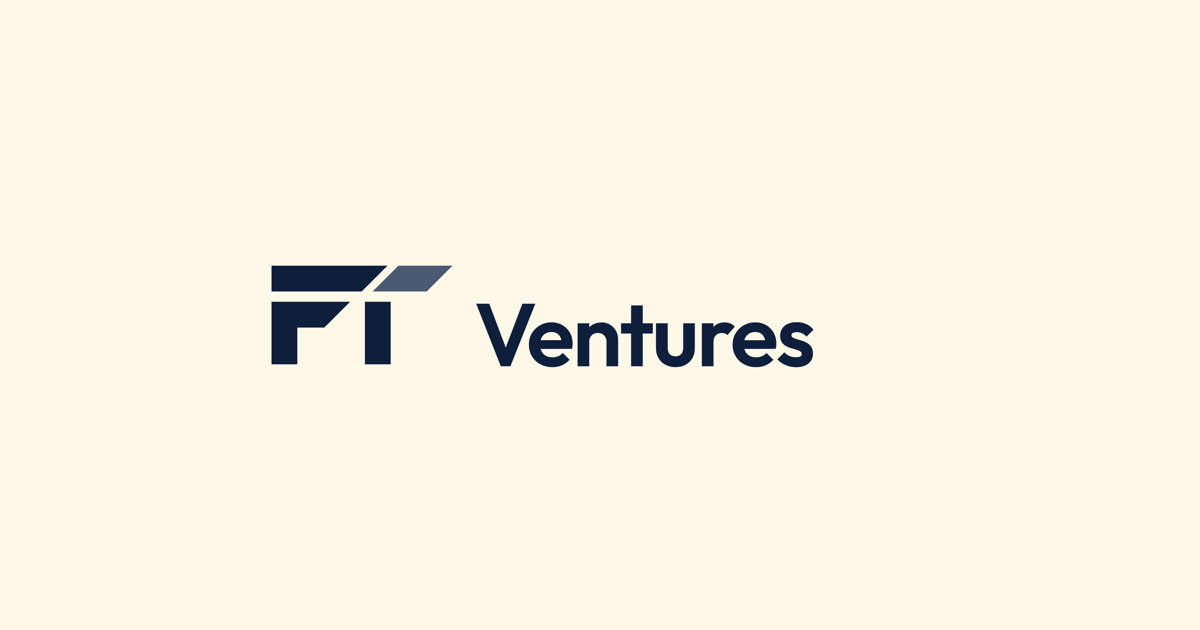
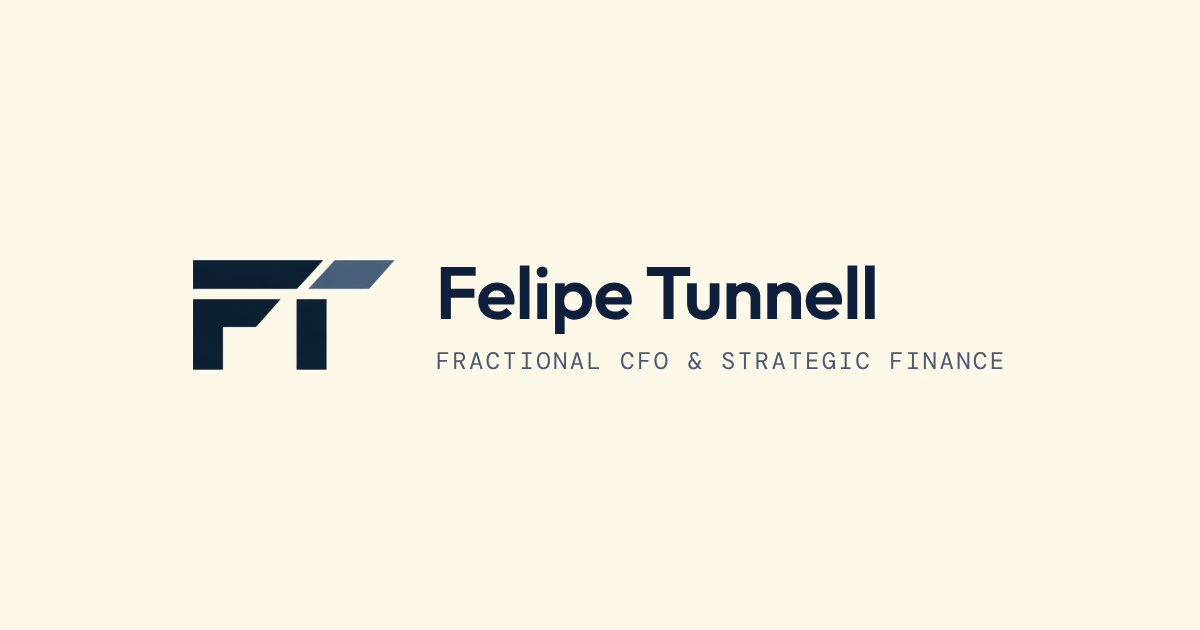
Rebrand header, title, caption, footer and link preview to Felipe Tunnell
Claude-Session: https://claude.ai/code/session_01RBtKJGKRivP61H6seP1xza

Changed region(s): [[0.1542, 0.3921, 0.74, 0.6032], [0.74, 0.5429, 0.8325, 0.6032]]

diff --git a/index.html b/index.html
@@ -3,11 +3,11 @@
 <head>
 <meta charset="utf-8">
 <meta name="viewport" content="width=device-width, initial-scale=1, viewport-fit=cover">
-<title>FT Ventures · Felipe Tunnell, Fractional CFO</title>
+<title>Felipe Tunnell · Fractional CFO & Strategic Finance</title>
 <meta name="description" content="Burn to profitability. Fundraise to exit. Ex-investment banker and VC turned technology CFO, with 2 exits and 12+ years across finance leadership, venture capital and M&amp;A.">
-<meta property="og:title" content="FT Ventures · Felipe Tunnell, Fractional CFO">
+<meta property="og:title" content="Felipe Tunnell · Fractional CFO &amp; Strategic Finance">
 <meta property="og:description" content="Burn to profitability. Fundraise to exit. Ex-investment banker and VC turned technology CFO, with 2 exits and 12+ years across finance leadership, venture capital and M&amp;A.">
-<meta property="og:image" content="https://www.felipetunnell.com/img/og.png">
+<meta property="og:image" content="https://www.felipetunnell.com/img/og.png?v=2">
 <meta property="og:url" content="https://www.felipetunnell.com/">
 <meta name="twitter:card" content="summary_large_image">
 <link rel="icon" type="image/png" href="img/favicon.png?v=4">
@@ -38,7 +38,7 @@ nav .wrap{display:flex;align-items:center;justify-content:space-between;gap:16px
 .brand{font-family:var(--display);font-weight:600;font-size:17px;line-height:1.05;text-decoration:none;color:var(--fg);display:flex;align-items:center;gap:10px}
 .brand .mk{background:var(--fg);color:var(--bg);font-weight:700;padding:5px 7px;border-radius:3px;letter-spacing:.02em}
 .brand{font-size:19px}
-.brand img{height:54px;width:auto;display:block}
+.brand img{height:40px;width:auto;display:block}.brand{gap:14px}.brand .bt{display:flex;flex-direction:column;gap:4px}.brand .bs{font-family:var(--mono);font-weight:400;font-size:11px;letter-spacing:.08em;text-transform:uppercase;color:var(--muted)}.brand .bn{font-size:24px;line-height:1;font-weight:600;letter-spacing:-.01em;color:var(--fg)}@media(max-width:600px){.brand .bn{font-size:19px}.brand .bs{font-size:9px}}
 .tabs{display:flex;gap:2px;flex-wrap:wrap}
 .tabs a{font-family:var(--display);font-size:14px;font-weight:500;text-decoration:none;color:var(--muted);padding:7px 12px;border:1.5px solid transparent;border-radius:3px}
 .tabs a:hover{color:var(--fg)}
@@ -331,7 +331,7 @@ footer .wrap{display:flex;justify-content:space-between;gap:12px;flex-wrap:wrap}
 <body>
 
 <nav><div class="wrap">
-  <a class="brand" href="#about"><img src="img/ftlogo.png" alt="FT Ventures"></a>
+  <a class="brand" href="#about"><img src="img/ftmark.png" alt=""><span class="bt"><span class="bn">Felipe Tunnell</span><span class="bs">Fractional CFO &amp; Strategic Finance</span></span></a>
   <div class="tabs" id="tabs">
     <a href="#about" data-view="about">About</a>
     <a href="#services" data-view="services">Fractional CFO</a>
@@ -356,7 +356,7 @@ footer .wrap{display:flex;justify-content:space-between;gap:12px;flex-wrap:wrap}
     </div>
     <div class="portrait">
       <a href="https://www.linkedin.com/in/felipetunnell" target="_blank" rel="noopener" class="ilk"><img src="img/felipe.jpg" alt="Felipe Tunnell"></a>
-      <div class="cap"><div class="capname"><a href="https://www.linkedin.com/in/felipetunnell" target="_blank" rel="noopener">Felipe Tunnell</a><a class="li" href="https://www.linkedin.com/in/felipetunnell" target="_blank" rel="noopener" aria-label="Felipe Tunnell on LinkedIn"><svg viewBox="0 0 24 24" width="20" height="20" aria-hidden="true"><rect width="24" height="24" rx="4" fill="currentColor"/><path d="M7 10h2.6v7.5H7zM8.3 6.2a1.5 1.5 0 1 1 0 3 1.5 1.5 0 0 1 0-3zM11.2 10h2.5v1.1c.4-.7 1.3-1.3 2.6-1.3 2.6 0 3 1.7 3 3.9v3.8h-2.6v-3.4c0-.8 0-1.9-1.2-1.9s-1.4.9-1.4 1.8v3.5h-2.6z" fill="var(--bg)"/></svg></a></div><small>Founder · FT Ventures</small><small>British · Spanish · Argentine</small></div>
+      <div class="cap"><div class="capname"><a href="https://www.linkedin.com/in/felipetunnell" target="_blank" rel="noopener">Felipe Tunnell</a><a class="li" href="https://www.linkedin.com/in/felipetunnell" target="_blank" rel="noopener" aria-label="Felipe Tunnell on LinkedIn"><svg viewBox="0 0 24 24" width="20" height="20" aria-hidden="true"><rect width="24" height="24" rx="4" fill="currentColor"/><path d="M7 10h2.6v7.5H7zM8.3 6.2a1.5 1.5 0 1 1 0 3 1.5 1.5 0 0 1 0-3zM11.2 10h2.5v1.1c.4-.7 1.3-1.3 2.6-1.3 2.6 0 3 1.7 3 3.9v3.8h-2.6v-3.4c0-.8 0-1.9-1.2-1.9s-1.4.9-1.4 1.8v3.5h-2.6z" fill="var(--bg)"/></svg></a></div><small>Fractional CFO</small><small>British · Spanish · Argentine</small></div>
     </div>
   </div>
 
@@ -601,7 +601,7 @@ footer .wrap{display:flex;justify-content:space-between;gap:12px;flex-wrap:wrap}
   </div>
 </div></section>
 
-<footer><div class="wrap"><span>© 2026 FT Ventures · Operated by Oasis Ventures, UAE</span><span><a href="https://linkedin.com/in/felipetunnell">LinkedIn</a></span></div></footer>
+<footer><div class="wrap"><span>© 2026 Felipe Tunnell · Operated by Oasis Ventures, UAE</span><span><a href="https://linkedin.com/in/felipetunnell">LinkedIn</a></span></div></footer>
 
 <script>
 function show(){
